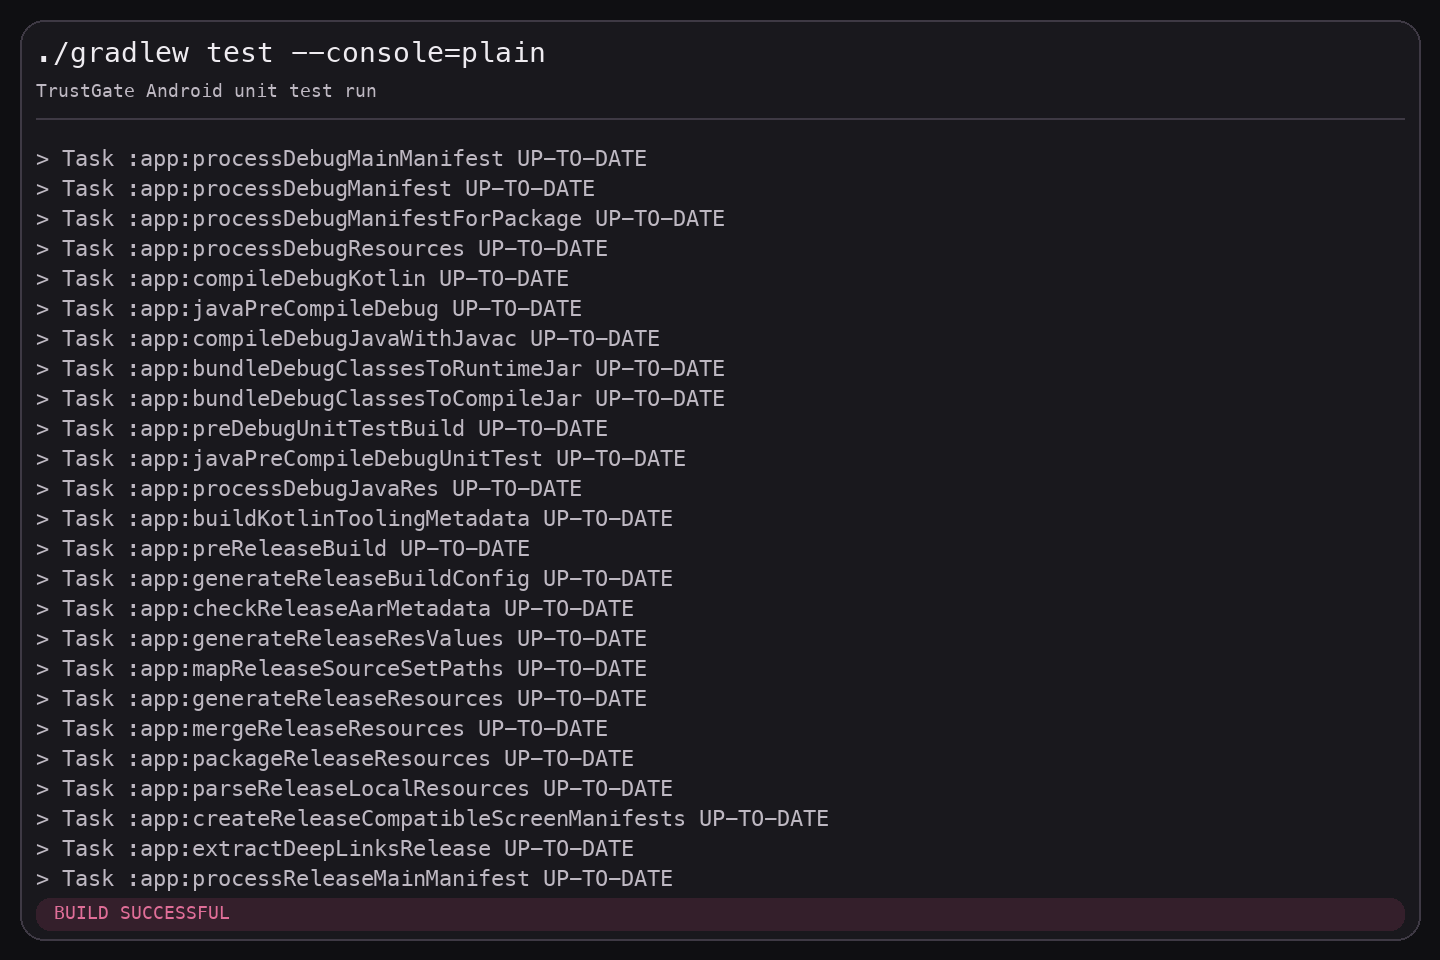
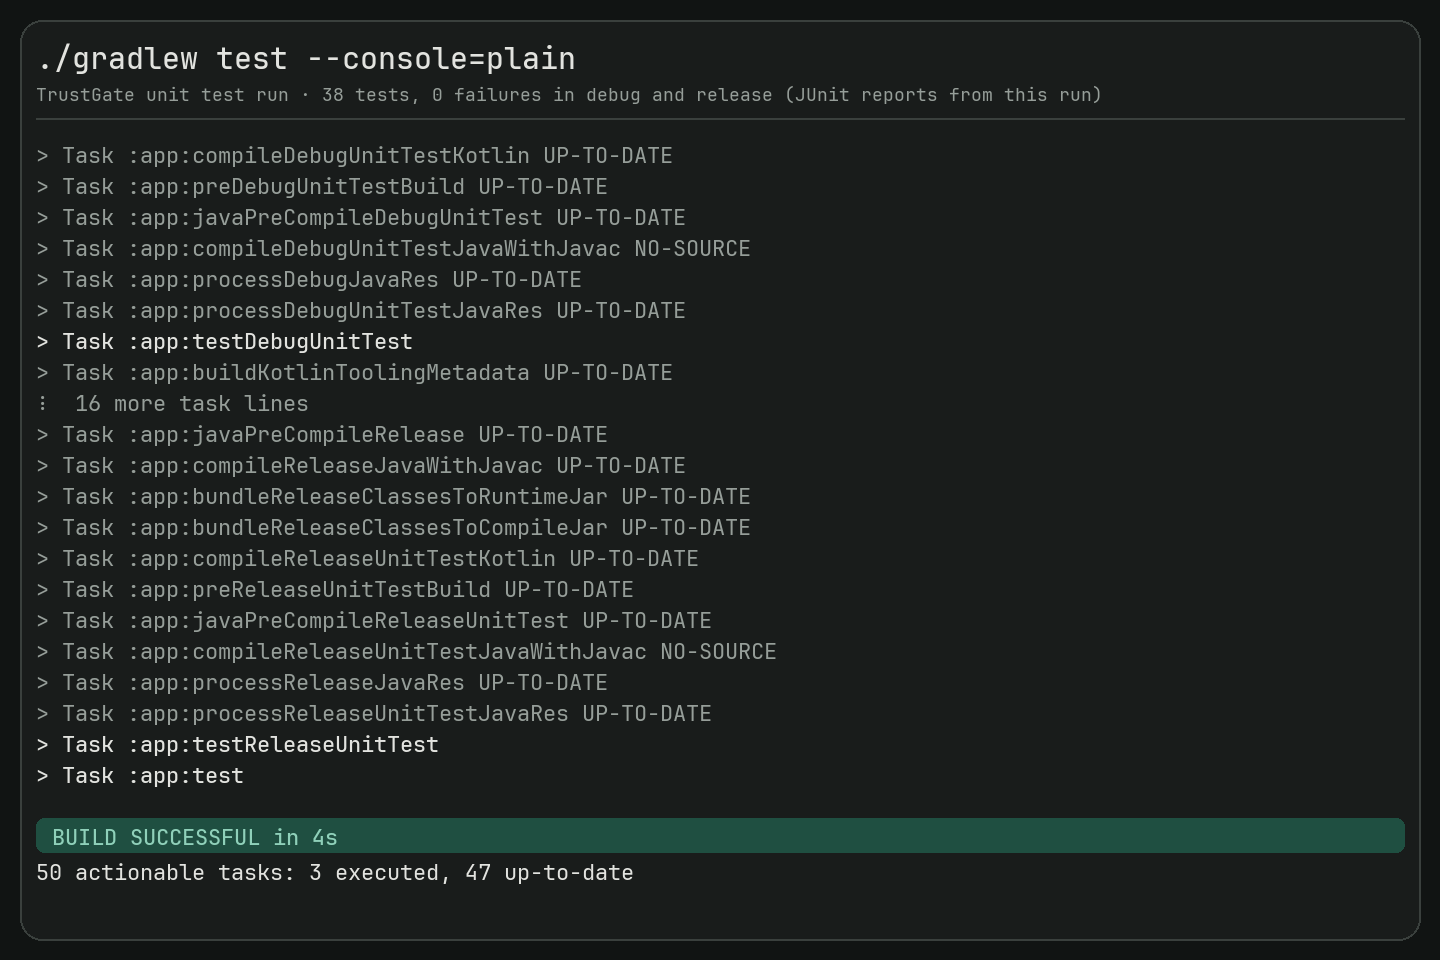
documentation: refresh test, CI, and repository screenshots
- Recapture the test run from a fresh ./gradlew test with 38 passing tests
- Recapture the passing CI run on main and the main branch overview
- Describe what each app screenshot now shows in the README captions

Changed region(s): [[0.0, 0.1562, 1.0, 0.9688], [0.0312, 0.0312, 0.4062, 0.125], [0.4062, 0.0938, 0.75, 0.125]]

diff --git a/README.md b/README.md
@@ -49,22 +49,22 @@ Real screenshots for the app, tests, CI, and repository are committed under [`do
 <table>
   <tr>
     <td><img src="docs/screenshots/01-app-overview.png" width="320" alt="Trust overview" /><br />Trust overview</td>
-    <td><img src="docs/screenshots/02-device-risk-details.png" width="320" alt="Device risk details" /><br />Device risk details</td>
+    <td><img src="docs/screenshots/02-device-risk-details.png" width="320" alt="Risk signals with the reason for the verdict" /><br />Risk signals and why they add up</td>
   </tr>
   <tr>
-    <td><img src="docs/screenshots/03-sensitive-action-allowed.png" width="320" alt="Sensitive action allowed" /><br />Sensitive action allowed</td>
-    <td><img src="docs/screenshots/04-sensitive-action-blocked.png" width="320" alt="Sensitive action blocked" /><br />Sensitive action blocked</td>
+    <td><img src="docs/screenshots/03-sensitive-action-allowed.png" width="320" alt="Sensitive action allowed and its request verified" /><br />Allowed, signed, and verified</td>
+    <td><img src="docs/screenshots/04-sensitive-action-blocked.png" width="320" alt="Sensitive action blocked" /><br />Blocked, nothing signed</td>
   </tr>
   <tr>
-    <td><img src="docs/screenshots/05-request-signing-reference.png" width="320" alt="Request signing reference flow" /><br />Request signing reference flow</td>
+    <td><img src="docs/screenshots/05-request-signing-reference.png" width="320" alt="Verifier accepting a signed request and rejecting replayed, edited, and late ones" /><br />Verifier responses to genuine and tampered requests</td>
     <td><img src="docs/screenshots/06-secure-storage-reference.png" width="320" alt="Secure storage reference values" /><br />Secure storage reference values</td>
   </tr>
   <tr>
     <td><img src="docs/screenshots/07-security-event-log.png" width="320" alt="Activity log" /><br />Activity log</td>
-    <td><img src="docs/screenshots/08-tests-passing.png" width="320" alt="Tests passing" /><br />Fresh `./gradlew test` output</td>
+    <td><img src="docs/screenshots/08-tests-passing.png" width="320" alt="Tests passing" /><br />Fresh <code>./gradlew test</code> output</td>
   </tr>
   <tr>
-    <td><img src="docs/screenshots/09-ci-passing.png" width="320" alt="CI passing" /><br />GitHub Actions run summary</td>
+    <td><img src="docs/screenshots/09-ci-passing.png" width="320" alt="CI passing" /><br />GitHub Actions run summary on <code>main</code></td>
     <td><img src="docs/screenshots/10-repo-overview.png" width="320" alt="Repository overview" /><br />GitHub branch overview</td>
   </tr>
 </table>
